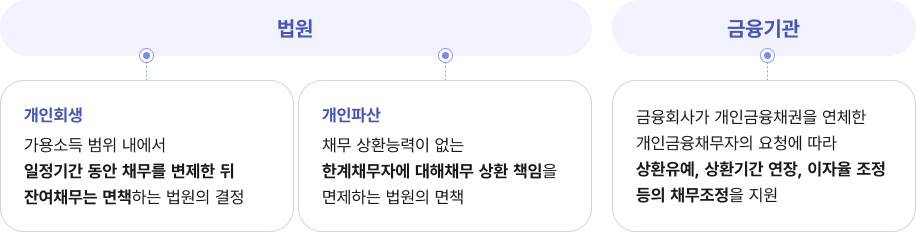
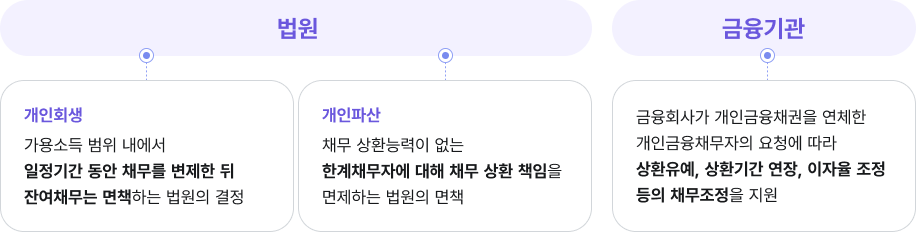
텍스트 검토 및 수정

diff --git a/html/채무조정제도비교_종류비교.html b/html/채무조정제도비교_종류비교.html
@@ -295,21 +295,26 @@
                                             </tr>
                                             <tr>
                                                 <th scope="row">대상 채무자</th>
-                                                <td class="al">연체기간<br>30일이하인 채무자</td>
-                                                <td class="al">연체기간<br>31일~89일인 채무자</td>
-                                                <td class="al">연체기간<br>90일이상인 채무자</td>
+                                                <td class="al">연체기간<br>30일이하</td>
+                                                <td class="al">연체기간<br>31일~89일</td>
+                                                <td class="al">연체기간<br>90일이상</td>
                                                 <td class="al">고정소득이 있는 상환불능자</td>
-                                                <td class="al">소득활동이 어려운 상환불능자(재산 無)</td>
+                                                <td class="al">소득활동이 어려운 상환불가자(재산 無)</td>
                                             </tr>   
                                             <tr>
                                                 <th scope="row" class="al">대상채권</th>
                                                 <td class="al" colspan="3">
-                                                    신용회복지원협약 가입기관<br>
+                                                    신용회복지원협약 가입 채권금융회사<br>
                                                     (대부업체포함)<br>
                                                     <br>
                                                     ※세금, 건보료, 개인채무 등 비금융채무 조정불가
                                                 </td>
-                                                <td class="al" colspan="2">
+                                                <td class="al" colspan="1">
+                                                    제한없음<br>
+                                                    <br>
+                                                    ※세금, 건보료, 사채 등 포함
+                                                </td>
+                                                <td class="al" colspan="1">
                                                     제한없음<br>
                                                     <br>
                                                     ※세금, 건보료, 면책불가
@@ -319,20 +324,20 @@
                                                 <th scope="row" class="al">채무액</th>
                                                 <td class="al">
                                                     무담보 5억,<br>
-                                                    담보 10억 이하
+                                                    담보 10억원
                                                 </td>
                                                 <td class="al">
                                                     무담보 5억,<br>
-                                                    담보 10억 이하
+                                                    담보 10억원
                                                 </td>
                                                 <td class="al">
                                                     무담보 5억,<br>
-                                                    담보 10억 이하<br>
-                                                    (사업자30억)
+                                                    담보 10억원<br>
+                                                    (사업자30억원)
                                                 </td>
                                                 <td class="al">
                                                     무담보 10억<br>
-                                                    담보 15억 이하
+                                                    담보 15억원
                                                 </td>
                                                 <td class="al">제한없음</td>
                                             </tr>

diff --git a/html/채무조정길잡이_소개.html b/html/채무조정길잡이_소개.html
@@ -262,7 +262,7 @@
                         <!-- Content Sections -->
                         <div class="content-sections g-wrap">
                             <div class="page-description bgBlue">
-                                <p>갚기 힘든 빚,<span class="fBlue">신용회복위원회와 상담하세요.</span></p>
+                                <p><span class="fBlue">본인 상황에 맞는 채무조정제도</span>를 알아보실 수 있습니다.</p>
                             </div>
                             <div class="g-conts-area">
                                 <!-- accordion -->
@@ -515,10 +515,10 @@
                                                 <!-- accordion contents -->
                                                 <ul class="krds-info-list decimal" role="list">
                                                     <li role="listitem">
-                                                        <strong class="primary">심사 기간</strong> : 접수일로부터 평균 2개월 정도 소요되며, 채권 금융회사와의 협의에 따라 달라질 수 있습니다.
+                                                        <strong class="primary">심사 기간</strong> : 접수일로부터 평균 2개월 정도 소요되며, 채권금융회사와의 협의에 따라 달라질 수 있습니다.
                                                     </li>
                                                     <li role="listitem">
-                                                        <strong class="primary">상환 중단</strong> : : 접수일부터는 특별한 사유가 없는 한, 채권 금융회사에 개별 상환을 중단해야 합니다.
+                                                        <strong class="primary">상환 중단</strong> : 접수일부터는 특별한 사유가 없는 한, 채권금융회사에 개별 상환을 중단해야 합니다.
                                                     </li>
                                                     <li role="listitem">
                                                         <strong class="primary">비용 납입</strong> : 신청비와 예납금은 위원회 심사역의 안내에 따라 납입하셔야 합니다.

diff --git a/html/협약기관조회.html b/html/협약기관조회.html
@@ -256,7 +256,7 @@
                         <!-- Content Sections -->
                         <div class="content-sections g-wrap">
                             <div class="page-description bgBlue">
-                                <p>「서민의 금융생활지원에 관한 법률」에 따라 채권금융회사는 <span class="primary">신용회복지원협약</span>에 가입되어 있습니다.</p>
+                                <p>「서민의 금융생활지원에 관한 법률」에 따라 채권금융회사는<br><span class="primary">신용회복지원협약</span>에 가입되어 있습니다.</p>
                             </div>
                             <div class="board-list">
                                 <!-- 검색 입력폼 -->

diff --git a/html/채무조정절차.html b/html/채무조정절차.html
@@ -256,7 +256,7 @@
                         <!-- Content Sections -->
                         <div class="content-sections g-wrap">
                             <div class="page-description bgBlue">
-                                <p>채무조정제도는 빚이 많아 상환이 어려운 분들을 위해,<br>상환 조건을 조정해 경제적 재기를 돕는 제도입니다.</p>
+                                <p>채무조정 절차는 정해진 규정에 따라<br>투명하고 공정하게 진행됩니다.</p>
                             </div>
                             <div class="g-conts-area">
                                 <div class="g-img-wrap">
